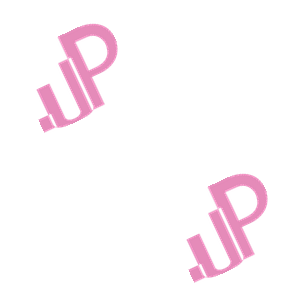
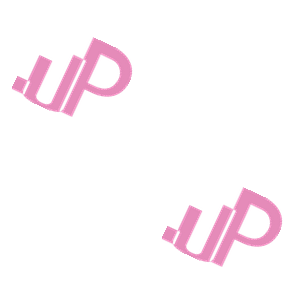
Testimonial photos, Tom Poos review, updated roles; pattern tilted clockwise
Claude-Session: https://claude.ai/code/session_01EqZd71HJXQ6YZMmYLt2LmS

Changed region(s): [[0.54, 0.57, 0.96, 0.96], [0.03, 0.06, 0.45, 0.45]]

diff --git a/textes.js b/textes.js
@@ -32,18 +32,21 @@ window.TEXTES = {
       // nom / role: who says it · lien: profile link (optional) · photo: optional, e.g. "assets/temoignages/name.jpg"
       // capture: optional screenshot path (replaces the text) · while texte starts with [ the card shows dashed
       temoignages: [
-        { type: "linkedin", traduit: true, nom: "Kevin Contoux", role: "B2B sales systems · Rebranding client",
+        { type: "linkedin", traduit: true, nom: "Kevin Contoux", role: "Founder, The Machine",
           texte: "I hired Joanna to rebrand my company. We wanted to target bigger companies and markets, and needed to adapt our communication and brand image. I was pleasantly surprised by the quality of the work and above all by how efficiently she understood our needs. […] Joanna understood exactly what we needed with a detailed questionnaire, 2 calls and WhatsApp follow-up. Very efficient, with very few changes at the end. She even added things we hadn’t thought of, like sales materials and guidelines on the marketing tone for our copywriters. I recommend her 200%.",
-          lien: "", photo: "", capture: "" },
+          lien: "", photo: "assets/temoignages/kevin-contoux.jpg", capture: "" },
         { type: "linkedin", traduit: true, nom: "Guillaume Trotignon", role: "Founder, Zmachina",
           texte: "I asked Joanna for visual branding work and I’m very satisfied. I recommend her without hesitation.",
-          lien: "", photo: "", capture: "" },
+          lien: "", photo: "assets/temoignages/guillaume-trotignon.jpg", capture: "" },
         { type: "google", traduit: false, nom: "Bruno Nobre", role: "Authentic Entertainment",
           texte: "Great communication, deliverables time respected, good skills! If you want quality branding and scale your brand, BRAND.UP!",
-          lien: "", photo: "", capture: "" },
-        { type: "google", traduit: true, nom: "Ines Mettidji", role: "Beautycurly Queen (podcast)",
+          lien: "", photo: "assets/temoignages/authntk.jpg", capture: "" },
+        { type: "google", traduit: false, nom: "Tom Poos", role: "Serenity",
+          texte: "I can only recommend you Brand.UP if you want to scale your brand and get a complete sophisticated branding overhaul 💯. 41 pages with pretty much every detail intentionally covered, from typography to designed website icons.",
+          lien: "", photo: "assets/temoignages/tom-poos.jpg", capture: "" },
+        { type: "google", traduit: true, nom: "Ines Mettidji", role: "Content Creator & UGC",
           texte: "Honestly, a great experience! Brand.UP created the logo for my podcast and I loved the result. Very attentive, professional and talented. I truly recommend them.",
-          lien: "", photo: "", capture: "" }
+          lien: "", photo: "assets/temoignages/ines-mettidji.jpg", capture: "" }
       ]
     },
 
@@ -127,18 +130,21 @@ window.TEXTES = {
       boutonHaut: "Accéder à la vidéo",
       temoignagesTitre: "Ils ont travaillé avec Brand.UP",
       temoignages: [
-        { type: "linkedin", traduit: false, nom: "Kevin Contoux", role: "Systèmes commerciaux B2B · Client rebranding",
+        { type: "linkedin", traduit: false, nom: "Kevin Contoux", role: "Fondateur, The Machine",
           texte: "J’ai fait appel à Joanna pour le rebranding de mon entreprise. Nous souhaitions cibler de plus grosses entreprises / marchés, et avions besoin d’adapter notre communication et notre image de marque. J’ai été agréablement surpris de la qualité du travail et surtout de l’efficacité dans la compréhension du besoin. […] Joanna a parfaitement compris mon besoin avec un questionnaire détaillé, 2 calls et un suivi WhatsApp. Très efficace et très peu de modifications à la fin. Joanna a même intégré des éléments auxquels nous n’avions pas pensé, comme des exemples de supports commerciaux, des instructions sur le ton marketing à adopter pour nos copywriters. Je recommande à 200 %.",
-          lien: "", photo: "", capture: "" },
+          lien: "", photo: "assets/temoignages/kevin-contoux.jpg", capture: "" },
         { type: "linkedin", traduit: false, nom: "Guillaume Trotignon", role: "Fondateur, Zmachina",
           texte: "J’ai sollicité Joanna pour son travail de branding visuel et j’en suis très satisfait. Je la recommande sans hésiter.",
-          lien: "", photo: "", capture: "" },
+          lien: "", photo: "assets/temoignages/guillaume-trotignon.jpg", capture: "" },
         { type: "google", traduit: true, nom: "Bruno Nobre", role: "Authentic Entertainment",
           texte: "Super communication, délais de livraison respectés, de vraies compétences ! Si tu veux un branding de qualité et faire grandir ta marque : BRAND.UP !",
-          lien: "", photo: "", capture: "" },
-        { type: "google", traduit: false, nom: "Ines Mettidji", role: "Beautycurly Queen (podcast)",
+          lien: "", photo: "assets/temoignages/authntk.jpg", capture: "" },
+        { type: "google", traduit: true, nom: "Tom Poos", role: "Serenity",
+          texte: "Je ne peux que vous recommander Brand.UP si vous voulez faire grandir votre marque et obtenir une refonte de branding complète et sophistiquée 💯. 41 pages où quasiment chaque détail est pensé, de la typographie aux icônes du site web.",
+          lien: "", photo: "assets/temoignages/tom-poos.jpg", capture: "" },
+        { type: "google", traduit: false, nom: "Ines Mettidji", role: "Content Creator & UGC",
           texte: "Franchement super expérience ! Brandup a créé le logo de mon podcast et j’ai adoré le résultat. Très à l’écoute, pro et talentueux. Je recommande vraiment.",
-          lien: "", photo: "", capture: "" }
+          lien: "", photo: "assets/temoignages/ines-mettidji.jpg", capture: "" }
       ]
     },
 

diff --git a/style.css b/style.css
@@ -369,3 +369,4 @@ html.verrouille body > *:not(.ecran-verrou) { display: none !important; }
 .temoignage__badge--google { background: var(--blanc); color: #1F2937; }
 .temoignage__etoiles { color: #FBBC04; font-size: 17px; letter-spacing: 2px; }
 .temoignage__traduit { margin: 4px 0 0; font-size: 12px; font-style: italic; color: var(--gris); opacity: 0.8; }
+.temoignage__photo { width: 52px; height: 52px; border: 2px solid var(--rose); background: #000; }
